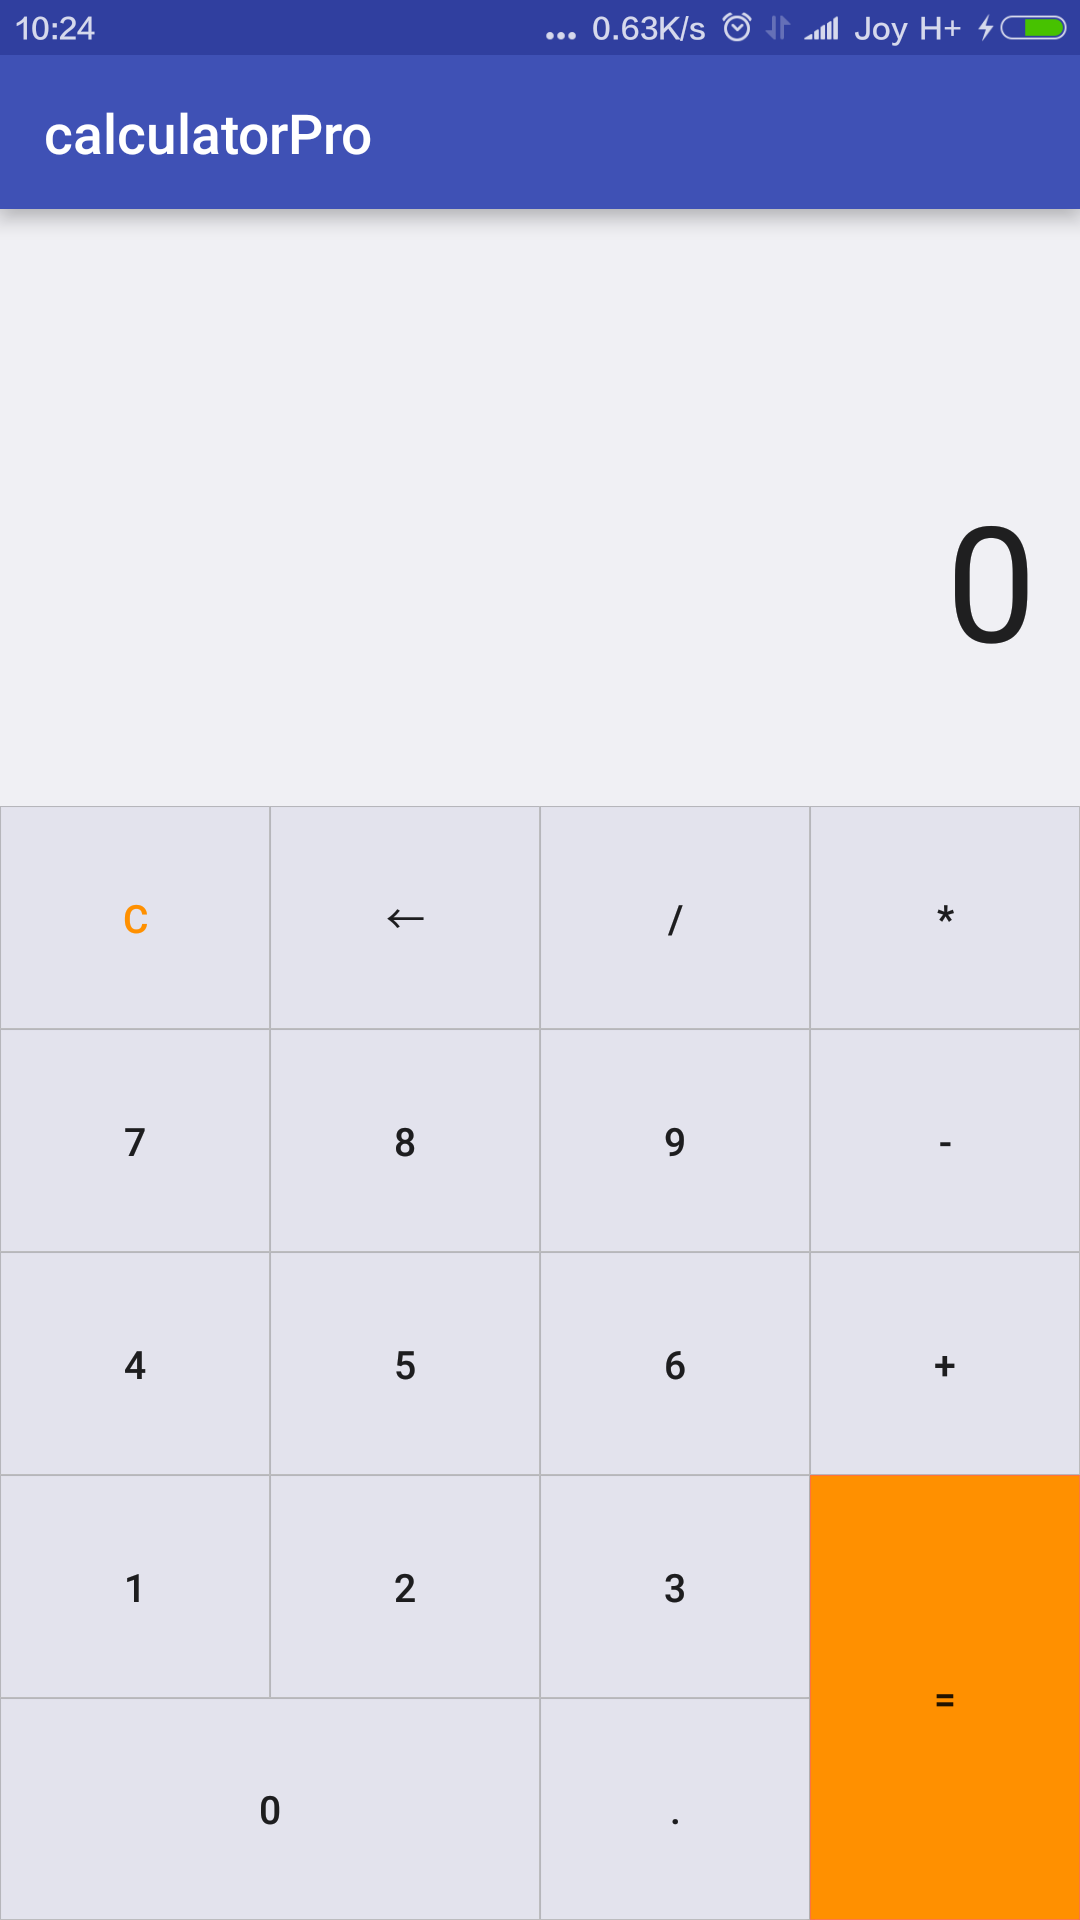
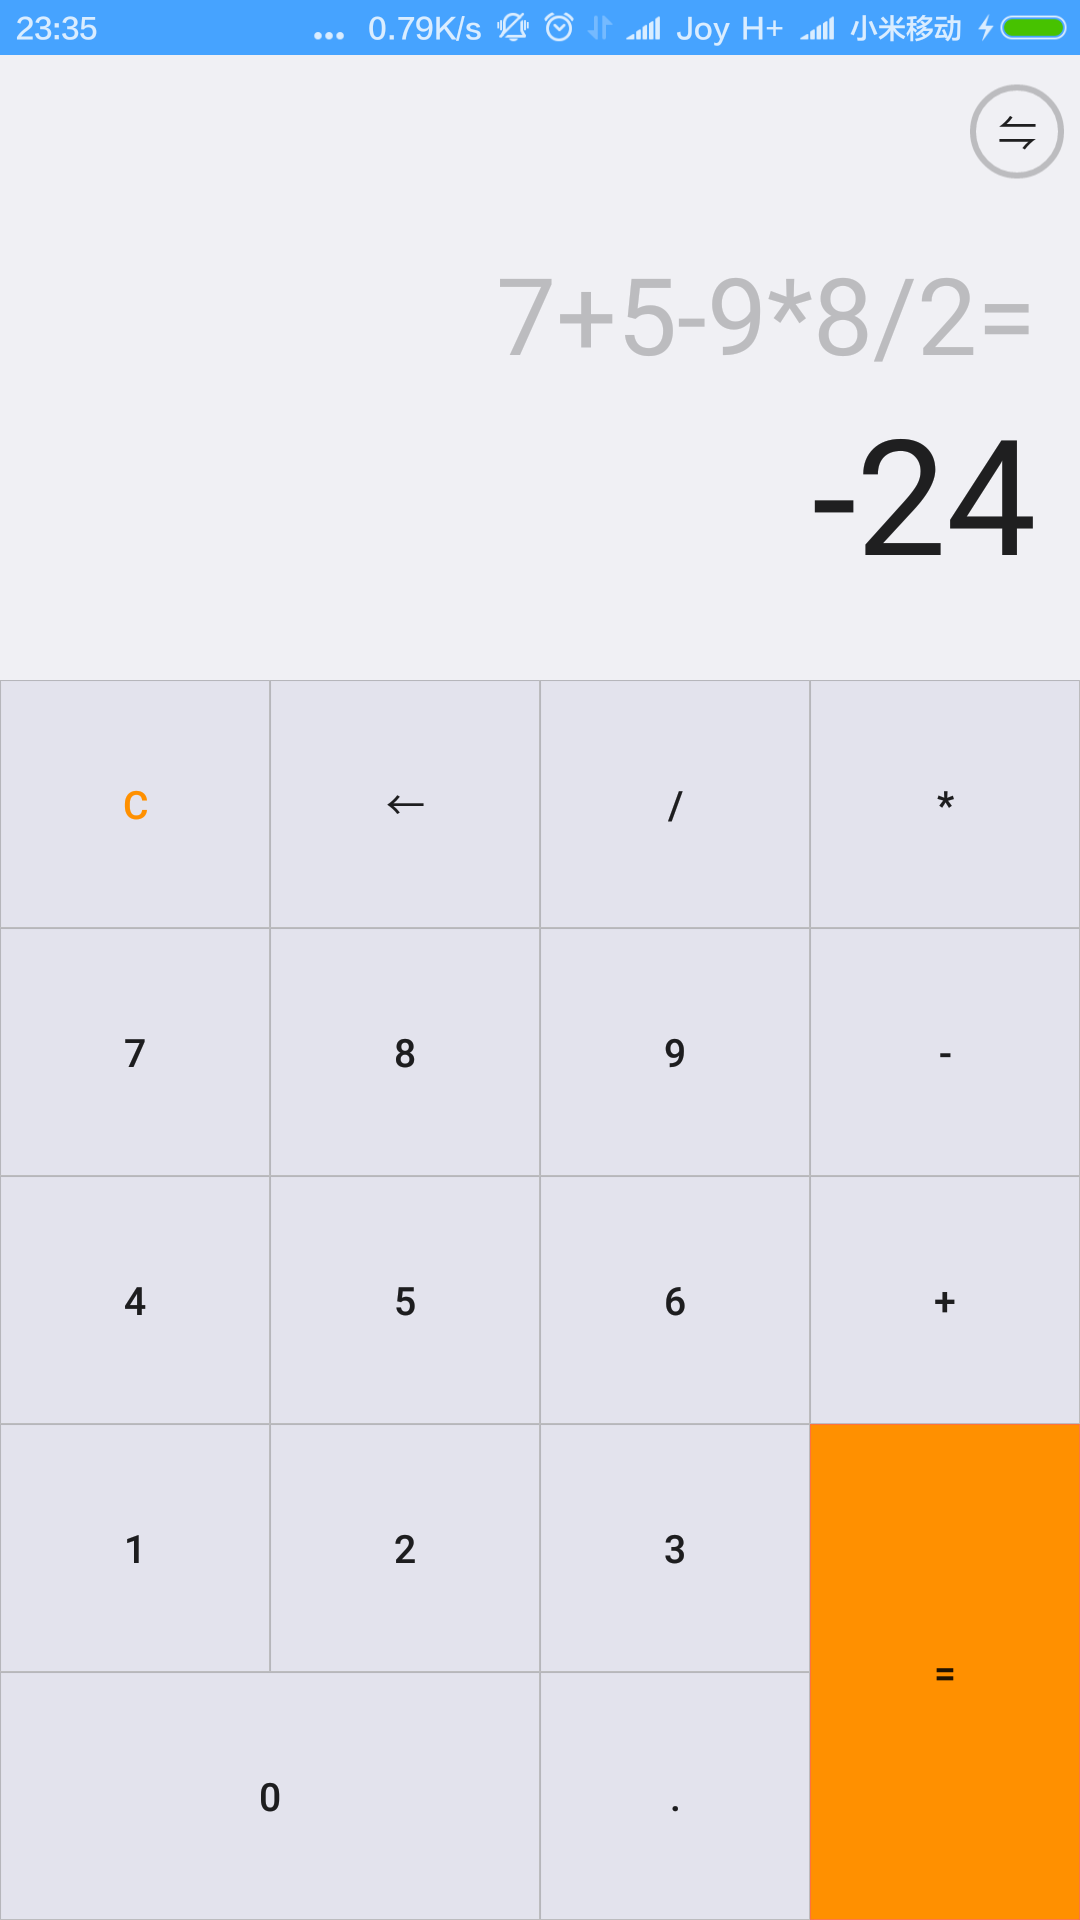
修改readme

diff --git a/readme.md b/readme.md
@@ -7,21 +7,30 @@
 	2，表达式出错（例如除以0）会返回错误。
 	3，点击等号后会有运算小动画（视图动画）。
 	4，点击等号运算结束后，再点击运算符和数字会有不同的效果，即点击运算符会把上一次的结果当做第一个数参与运算，而点击数字会清空重新输入。
-	5，...
+	
+	5，完成科学计算界面
+	6，完成简易计算器与科学计算器之间的动画变换。
+	7，待完善科学计算的计算程序........囧，还没写完	
 	
 	
-其他：
+重点：
 
-* 键盘界面仿的小米计算器，使用GridLayout，由于此布局的某些属性要在android 5.0之后才有，所以使用了v7包。
+* 键盘界面仿的小米计算器，使用TableLayout，由于TableLayout不支持合并行，因而采用了嵌套的方式来显示跨行的等号。
 * 最上面的表达式和结果显示的两个EditText使用右对齐，注意在每次输入的时候都要setSelection，即：`text2.setSelection(expression.length());`来确保始终会显示最新输入的字符。 
+* 为了使简易计算器和科学计算器之间变换效果接近小米原来的效果，这里使用了FrameLayout，键盘在第一层，占据下面2/3的用户区域，其他在第二层占据上面1/3的用户区域。这样，在键盘进行缩放动画的时候就不会影响到第二层的显示。（**键盘的动画始终显示在下面2/3的范围内！！！！**）
+
+
+另外，注意三种高度的不同：
+
+* 屏幕区域，高度为整个屏幕的高度
+* 应用区域，高度为去除状态栏的屏幕的高度
+* 用户区域，高度为去除状态栏和标题栏的高度
 
 
 <img src="./screenshot/simple1.png" width = "240" height = "430" alt="simple" align=left />
 
 _<img src="./screenshot/simple2.png" width = "240" height = "430" alt="simple2" />
-
-      
-      
+            
 <img src="./screenshot/simple3.png" width = "240" height = "430" alt="simple2" />
 
 
